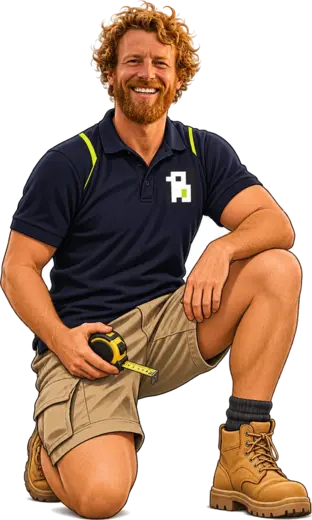
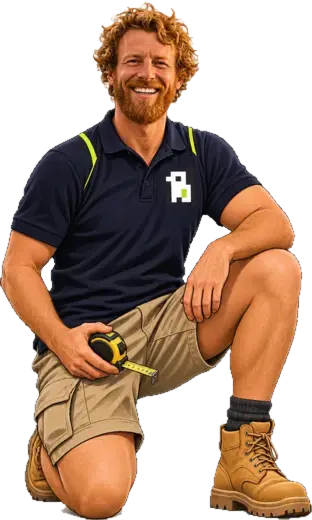
Grady's mate: a close mark over his head, clean cut-outs, a pose cycle and his own Settings block
The eight pose images are re-cut: the corner flood fill had left the pale
ground shadows under the boots, the white pockets the outline encloses
(between the legs, under an arm, between the arms) and a one-pixel white
halo; each is cleared by component with the chest logo, the teeth and the
clipboard paper kept.

A small ✕ sits centred above the figure and closes him for the rest of the
tab's session (sessionStorage); the Settings switch remains the lasting off.
While nothing is happening he now changes pose on his own every 20 s by
default (10 / 20 / 45 / 90 s or never, a Setting) through the calm poses,
never over a bubble and never asleep. Settings gains a "Grady's mate" block
of its own: the switch, "Show him again now" while he is closed, the pose
change pace, chatter, size and transparency; nothing of his stays under App
behaviour. Verify pins the module, the markup and the block; the browser
probe proves the ✕, the block, Show him again and the cycle.

Claude-Session: https://claude.ai/code/session_01MmM5HNXRcemXdm9SZhoHff

diff --git a/portal/portal-shell.html b/portal/portal-shell.html
@@ -417,6 +417,8 @@
   #mate .fig{ position:absolute; left:0; right:0; bottom:0; height:var(--mate-h); display:flex; align-items:flex-end; justify-content:center; transform-origin:50% 100%; }
   #mate .fig img{ display:none; height:var(--mate-h); width:auto; max-width:none; filter:drop-shadow(0 10px 12px rgba(35,31,32,.32)); pointer-events:none; }
   #mate .shadow{ position:absolute; left:50%; bottom:2px; width:46%; height:4%; margin-left:-23%; border-radius:50%; background:rgba(35,31,32,.18); }
+  #mate .hide{ position:absolute; left:50%; top:-8px; margin-left:-11px; width:22px; height:22px; border-radius:50%; border:1px solid #c9c9c9; background:#fff; color:#6b6b6b; font:700 12px/20px Inter, "Segoe UI", sans-serif; text-align:center; cursor:pointer; padding:0; box-shadow:0 2px 6px rgba(35,31,32,.25); opacity:.85; z-index:2; }
+  #mate .hide:hover{ opacity:1; color:#231f20; border-color:#231f20; }
   #mate .mate-mark{ position:absolute; display:none; font:900 calc(var(--mate-h) * .1) / 1 Inter, "Segoe UI", sans-serif; color:#231f20; text-shadow:0 1px 0 #fff; }
   #mate .zz{ right:0; top:0; color:#6b6b6b; }
   #mate .q{ right:-4px; top:-6px; font-size:calc(var(--mate-h) * .13); color:#c2410c; }
@@ -951,32 +953,6 @@
         <div class="hint">Every Save keeps a full version of the quote for good. While a quote is changing, another version is kept automatically at this interval. 0 turns the automatic ones off.</div>
       </div>
       <div class="field"><label class="settings-check"><input type="checkbox" id="settings-download-on-save"> Quotes: also save a copy to this computer on every Save</label></div>
-      <div class="field"><label class="settings-check"><input type="checkbox" id="settings-mate"> Grady's mate — the figure on the screen</label><div class="hint">Waves on sign-in, points at the next element, nods at a Done tick, scratches his head at an unpriced quote row, celebrates a submission. Drag him anywhere; click him to ask Gradcon AI. He changes nothing on a quote.</div></div>
-      <div class="field">
-        <label for="settings-mate-chatter">Grady's mate — chatter</label>
-        <select id="settings-mate-chatter">
-          <option value="0">Off — he only reacts to the work</option>
-          <option value="10">A friendly line every 10 minutes</option>
-          <option value="20">A friendly line every 20 minutes (default)</option>
-          <option value="30">A friendly line every 30 minutes</option>
-          <option value="60">A friendly line every hour</option>
-        </select>
-        <div class="hint">Seventy-odd sayings built from real facts: the project last worked on, what is next, the projects opened today, the quotes due, the weather. Never while he is asleep, never over another bubble.</div>
-      </div>
-      <div class="field">
-        <label for="settings-mate-size">Grady's mate — size</label>
-        <select id="settings-mate-size">
-          <option value="120">Small (120 px)</option>
-          <option value="180">Medium (180 px)</option>
-          <option value="240">Large (240 px, default)</option>
-          <option value="320">Extra large (320 px)</option>
-        </select>
-      </div>
-      <div class="field">
-        <label for="settings-mate-opacity">Grady's mate — transparency</label>
-        <div class="settings-range"><input type="range" id="settings-mate-opacity" min="20" max="100" step="5" value="100" oninput="document.getElementById('settings-mate-opacity-out').value = this.value + '%'"><output id="settings-mate-opacity-out">100%</output></div>
-        <div class="hint">100% is solid; lower lets the page show through him.</div>
-      </div>
       <div class="field">
         <label for="settings-weather-place">Weather on the dashboard — place</label>
         <input type="text" id="settings-weather-place" placeholder="Melbourne" list="settings-weather-places">
@@ -1020,6 +996,48 @@
     </div>
     <p class="settings-note">Turning off delete confirmation makes every ✕ Remove a single, immediate click — there is no undo. Auto-publish keeps the Cost Planner fed live from Estimates' Quantity Register; turn it off if you'd rather it not update automatically.</p>
 
+    <div class="settings-section" id="settings-section-mate">Grady's mate</div>
+    <div class="settings-grid" data-testid="settings-mate-block">
+      <div class="field"><label class="settings-check"><input type="checkbox" id="settings-mate"> Show Grady's mate — the figure on the screen</label><div class="hint">Waves on sign-in, points at the next element, nods at a Done tick, scratches his head at an unpriced quote row, celebrates a submission. Drag him anywhere; click him to ask Gradcon AI; the ✕ over his head closes him for the rest of this session. He changes nothing on a quote.</div></div>
+      <div class="field" id="settings-mate-closed-field" hidden><label>Closed with the ✕ for this session</label><button type="button" class="btn-ghost" id="settings-mate-show" data-testid="settings-mate-show">Show him again now</button></div>
+      <div class="field">
+        <label for="settings-mate-cycle">Change pose on his own every</label>
+        <select id="settings-mate-cycle" data-testid="settings-mate-cycle">
+          <option value="0">Never — only when something happens</option>
+          <option value="10">10 seconds</option>
+          <option value="20">20 seconds (default)</option>
+          <option value="45">45 seconds</option>
+          <option value="90">90 seconds</option>
+        </select>
+        <div class="hint">While nothing is happening he moves through his calm poses at this pace — never while a bubble is up, never asleep.</div>
+      </div>
+      <div class="field"><label class="settings-check"><input type="checkbox" id="settings-mate"> Grady's mate — the figure on the screen</label><div class="hint">Waves on sign-in, points at the next element, nods at a Done tick, scratches his head at an unpriced quote row, celebrates a submission. Drag him anywhere; click him to ask Gradcon AI. He changes nothing on a quote.</div></div>
+      <div class="field">
+        <label for="settings-mate-chatter">Chatter</label>
+        <select id="settings-mate-chatter">
+          <option value="0">Off — he only reacts to the work</option>
+          <option value="10">A friendly line every 10 minutes</option>
+          <option value="20">A friendly line every 20 minutes (default)</option>
+          <option value="30">A friendly line every 30 minutes</option>
+          <option value="60">A friendly line every hour</option>
+        </select>
+        <div class="hint">Seventy-odd sayings built from real facts: the project last worked on, what is next, the projects opened today, the quotes due, the weather. Never while he is asleep, never over another bubble.</div>
+      </div>
+      <div class="field">
+        <label for="settings-mate-size">Size</label>
+        <select id="settings-mate-size">
+          <option value="120">Small (120 px)</option>
+          <option value="180">Medium (180 px)</option>
+          <option value="240">Large (240 px, default)</option>
+          <option value="320">Extra large (320 px)</option>
+        </select>
+      </div>
+      <div class="field">
+        <label for="settings-mate-opacity">Transparency</label>
+        <div class="settings-range"><input type="range" id="settings-mate-opacity" min="20" max="100" step="5" value="100" oninput="document.getElementById('settings-mate-opacity-out').value = this.value + '%'"><output id="settings-mate-opacity-out">100%</output></div>
+        <div class="hint">100% is solid; lower lets the page show through him.</div>
+      </div>
+    </div>
     <div class="settings-section">Estimates — defaults for new takeoffs</div>
     <div class="settings-grid">
       <div class="field">
@@ -1143,7 +1161,8 @@
      is a button the person clicks. -->
 <button type="button" id="ai-chat-fab" class="ai-fab" hidden title="Ask Gradcon AI about your projects, deadlines, rates and takeoffs">🤖 Ask Gradcon AI</button>
 <!-- Grady's mate: Grady's own illustration (portal/mate/*.webp — eight poses cut out of the sheets he sent on 6 Nov 2026, inlined as data URLs by the assembler) who reacts to the work and chats between times (portal/mate.js). Drag him anywhere; click = Ask Gradcon AI; size, transparency, chatter and the switch under Settings → App behaviour. -->
-<div id="mate" hidden data-pose="idle" role="button" tabindex="0" title="Grady's mate — click to ask Gradcon AI, drag to move. Size, transparency and chatter under Settings → App behaviour." data-testid="mate">
+<div id="mate" hidden data-pose="idle" role="button" tabindex="0" title="Grady's mate — click to ask Gradcon AI, drag to move, ✕ to close him for now. His own block under Settings → Grady's mate." data-testid="mate">
+  <button type="button" class="hide" id="mate-hide" aria-label="Close Grady's mate for now" title="Close him for now — Settings → Grady's mate brings him back" data-testid="mate-hide">✕</button>
   <span class="shadow"></span>
   <div class="fig">
     <img class="img-stand" alt="" src="__MATE_POSE_STAND__">
@@ -1460,7 +1479,8 @@
     ['settings-quotes-theme','quotesTheme','portal'],
     ['settings-weather-place','weatherPlace',''],
     ['settings-mate-chatter','mateChatterMin','20'],
-    ['settings-mate-size','mateSize','240']
+    ['settings-mate-size','mateSize','240'],
+    ['settings-mate-cycle','mateCycleSec','20']
   ];
   // Toggle-backed preferences: [element id, prefs key, default-on?]. Stored
   // as explicit booleans on save (like showHero), so the apps can
@@ -2498,7 +2518,9 @@
     var lastBubbleAt = 0, lastChatterAt = Date.now(), lastSaying = null, session = { opened: [], project: '', next: '', done: 0, total: 0 };
     function prefs(){ return loadPrefs(); }
     function enabled(){ return mateEnabled(prefs()); }
-    function visible(){ return enabled() && screenId !== 'screen-login'; }
+    function closed(){ return mateClosed(window.sessionStorage); }
+    function visible(){ return enabled() && !closed() && screenId !== 'screen-login'; }
+    var lastCycleAt = Date.now();
     function facts(){ return { welcome: WELCOME_FACTS, name: currentUser ? firstName(currentUser) : '', tod: timeOfDay(new Date()), day: new Date().toLocaleDateString('en-AU', { weekday:'long' }), opened: session.opened, project: session.project, next: session.next, done: session.done, total: session.total, weather: MATE_WEATHER }; }
     function setPose(p){ el.setAttribute('data-pose', MATE_POSES.indexOf(p) >= 0 ? p : 'idle'); }
     function rest(){ setPose(idlePose(lastActive, Date.now())); }
@@ -2541,7 +2563,15 @@
       if(pos){ el.style.left = pos.x + 'px'; el.style.top = pos.y + 'px'; el.style.bottom = 'auto'; } else { el.style.left = ''; el.style.top = ''; el.style.bottom = ''; }
       if(!bubble.hidden) placeBubble();
     }
-    function refresh(){ el.hidden = !visible(); if(el.hidden) hideBubble(); else applyLook(); }
+    function refresh(){ el.hidden = !visible(); if(el.hidden) hideBubble(); else applyLook(); var cf = document.getElementById('settings-mate-closed-field'); if(cf) cf.hidden = !(enabled() && closed()); }
+    // the ✕ over his head: closed for the rest of this tab's session; Settings → Grady's mate → "Show him again now"
+    function closeForSession(){ try{ sessionStorage.setItem(MATE_CLOSED_KEY, String(Date.now())); }catch(e){} refresh(); }
+    function showAgain(){ try{ sessionStorage.removeItem(MATE_CLOSED_KEY); }catch(e){} lastActive = Date.now(); refresh(); }
+    // while nothing is happening he changes pose on his own at the Settings pace (calm poses only)
+    function cycle(now){
+      var ms = mateCycleMs(prefs()); if(!ms || !bubble.hidden || idlePose(lastActive, now) === 'sleep' || now - lastCycleAt < ms) return false;
+      setPose(cyclePose(el.getAttribute('data-pose'), Math.floor(now / 1000))); lastCycleAt = now; return true;
+    }
     function active(){ lastActive = Date.now(); if(bubble.hidden && el.getAttribute('data-pose') === 'sleep') setPose('idle'); }
     function watchFrame(){ // clicks and keys inside the app iframe (same origin, a blob: URL) count as activity
       var f = document.getElementById('app-frame'); if(!f) return;
@@ -2557,9 +2587,13 @@
     window.addEventListener('resize', function(){ if(!el.hidden) applyLook(); });
     document.addEventListener('pointerdown', active, true); document.addEventListener('keydown', active, true); watchFrame();
     window.addEventListener('storage', function(e){ if(e.key === MATE_EVENT_KEY && e.newValue){ active(); react(e.newValue); } });
-    setInterval(function(){ if(el.hidden) return; if(bubble.hidden) rest(); chatter(false); }, 30000);
+    setInterval(function(){ if(el.hidden) return; var now = Date.now(); if(bubble.hidden && idlePose(lastActive, now) === 'sleep') setPose('sleep'); else cycle(now); chatter(false); }, 5000);
     document.getElementById('mate-close').addEventListener('click', function(e){ e.stopPropagation(); hideBubble(); });
-    window.gradconMate = { react: react, refresh: refresh, chatter: function(){ return chatter(true); }, facts: facts, screen: function(id){ screenId = id; refresh(); }, state: function(){ return { pose: el.getAttribute('data-pose'), hidden: el.hidden, bubble: bubble.hidden ? null : textEl.textContent, lastSig: lastSig, side: bubble.getAttribute('data-side'), left: el.style.left, top: el.style.top, opacity: el.style.opacity, size: el.style.getPropertyValue('--mate-h') }; }, sleepNow: function(){ lastActive = 0; rest(); } };
+    var hideBtn = document.getElementById('mate-hide');
+    hideBtn.addEventListener('pointerdown', function(e){ e.stopPropagation(); }); hideBtn.addEventListener('pointerup', function(e){ e.stopPropagation(); });
+    hideBtn.addEventListener('click', function(e){ e.stopPropagation(); e.preventDefault(); closeForSession(); });
+    var showBtn = document.getElementById('settings-mate-show'); if(showBtn) showBtn.addEventListener('click', function(){ showAgain(); });
+    window.gradconMate = { react: react, refresh: refresh, chatter: function(){ return chatter(true); }, facts: facts, screen: function(id){ screenId = id; refresh(); }, close: closeForSession, show: showAgain, cycle: function(){ lastCycleAt = 0; return cycle(Date.now()); }, state: function(){ return { pose: el.getAttribute('data-pose'), hidden: el.hidden, closed: closed(), bubble: bubble.hidden ? null : textEl.textContent, lastSig: lastSig, side: bubble.getAttribute('data-side'), left: el.style.left, top: el.style.top, opacity: el.style.opacity, size: el.style.getPropertyValue('--mate-h') }; }, sleepNow: function(){ lastActive = 0; rest(); } };
     refresh();
   })();
 

diff --git a/portal/mate.js b/portal/mate.js
@@ -32,6 +32,15 @@
   const MATE_CHATTER_MIN_DEFAULT = 20;     // a friendly line every N minutes while he is awake (Settings; 0 = off)
   const MATE_CHATTER_OPTIONS = [0, 10, 20, 30, 60];
   const MATE_SIZES = [120, 180, 240, 320]; // the figure's height in px (Settings; 240 = "twice what we had")
+  // He changes pose on his own while idle (Grady, 8 Nov 2026: "reduce the time it takes for the image to
+  // change"): every MATE_CYCLE_SEC_DEFAULT seconds, a Settings choice from MATE_CYCLE_OPTIONS (0 = never),
+  // through the CALM poses only — the ones with no mark over his head — never while a bubble is up or asleep.
+  const MATE_CYCLE_OPTIONS = [0, 10, 20, 45, 90];
+  const MATE_CYCLE_SEC_DEFAULT = 20;
+  const MATE_CALM_POSES = ["idle", "hips", "clipboard", "measure", "thumbs"];
+  // The ✕ over his head closes him for the rest of this tab's session (sessionStorage); Settings → Grady's mate
+  // brings him back at once, and the next sign-in in a new tab starts fresh. The Settings switch is the lasting off.
+  const MATE_CLOSED_KEY = "gradcon-mate-closed";
   const MATE_SIZE_DEFAULT = 240;
   const MATE_OPACITY_DEFAULT = 100;        // percent (Settings slider, 20–100)
 
@@ -249,6 +258,14 @@
   /* ------------------------------------------------------------- placement, size, opacity, chatter */
   function mateSize(prefs) { const v = n(prefs && prefs.mateSize); return MATE_SIZES.indexOf(v) >= 0 ? v : MATE_SIZE_DEFAULT; }
   function mateOpacity(prefs) { const v = prefs && Number.isFinite(Number(prefs.mateOpacity)) ? Number(prefs.mateOpacity) : MATE_OPACITY_DEFAULT; return Math.min(100, Math.max(20, v)) / 100; }
+  function mateCycleMs(prefs) { const v = prefs && Number.isFinite(Number(prefs.mateCycleSec)) ? Number(prefs.mateCycleSec) : MATE_CYCLE_SEC_DEFAULT; return MATE_CYCLE_OPTIONS.indexOf(v) >= 0 ? v * 1000 : MATE_CYCLE_SEC_DEFAULT * 1000; }
+  /** The next calm pose for an idle figure: picked by the slot, never the pose he is already in. */
+  function cyclePose(prev, slot) {
+    const pool = MATE_CALM_POSES.filter((p) => p !== prev);
+    return pool[Math.abs(Math.floor(n(slot))) % pool.length];
+  }
+  /** Closed with the ✕ for this tab's session? (storage = sessionStorage, or any {getItem}) */
+  function mateClosed(storage) { try { return !!(storage && storage.getItem(MATE_CLOSED_KEY)); } catch (e) { return false; } }
   function mateChatterMs(prefs) { const v = prefs && Number.isFinite(Number(prefs.mateChatterMin)) ? Number(prefs.mateChatterMin) : MATE_CHATTER_MIN_DEFAULT; return MATE_CHATTER_OPTIONS.indexOf(v) >= 0 ? v * 60000 : MATE_CHATTER_MIN_DEFAULT * 60000; }
   /** Keep a dragged figure on screen: {x, y} are the figure's left / top in px; null = the default corner. */
   function clampMatePos(pos, size, viewport) {
@@ -263,6 +280,7 @@
   }
 
   return { MATE_EVENT_KEY, MATE_POSES, MATE_REPEAT_MS, MATE_IDLE_MS, MATE_BUBBLE_MS, MATE_CHATTER_MIN_DEFAULT, MATE_CHATTER_OPTIONS, MATE_SIZES, MATE_SIZE_DEFAULT, MATE_OPACITY_DEFAULT,
+    MATE_CYCLE_OPTIONS, MATE_CYCLE_SEC_DEFAULT, MATE_CALM_POSES, MATE_CLOSED_KEY, mateCycleMs, cyclePose, mateClosed,
     MATE_SAYINGS, SAYING_PLACEHOLDERS, SAYING_FLAGS, sayingFacts, fillSaying, eligibleSayings, mateSaying, mateSize, mateOpacity, mateChatterMs, clampMatePos,
     parseMateEvent, mateReaction, shouldSpeak, idlePose, mateEnabled, countUnpricedQuoteRows };
 });

diff --git a/CLAUDE.md b/CLAUDE.md
@@ -1196,7 +1196,13 @@ interchangeable sayings … not imposing and can be shut off … twice the size
 thumbs,arms,hips,kneel,clipboard,wave}.webp` are the eight poses cut out of
 the sheets (hands in pockets, pointing, thumbs-up crouch, arms crossed, hands
 on hips, kneeling with the tape, clipboard thumbs-up, waving), 520 px tall
-WebP with alpha, inlined as data URLs by `assemble-portal.mjs`
+WebP with alpha (re-cut 8 Nov 2026 — Grady: "remove the background from all
+the images": the corner flood fill had left the pale ground shadows under the
+boots, the white pockets the outline encloses — between the legs, under an
+arm, between the arms — and a one-pixel white halo; each was cleared by
+component with the chest logo, the teeth and the clipboard paper kept, the
+halo by a one-pixel alpha erode; the recipe is in the scratchpad's
+`mate-check/recut.sh`), inlined as data URLs by `assemble-portal.mjs`
 (`__MATE_POSE_<POSE>__`, asserted RIFF/WEBP) and animated as whole figures
 (breathe, rock, jab, bob, jump with confetti, a "?" when he thinks, a clock
 on the wrist tap, grey and z's asleep). The cut-out was done LOCALLY with
@@ -1257,9 +1263,31 @@ carried a hand-drawn vector instead. Rules:
 3. **Quiet by design** (Clippy was hated for interrupting): one bubble at a
    time, only on an event or the chatter interval, `MATE_BUBBLE_MS` = 9 s
    then back to idle, a ✕ on the bubble (`mate-close`), hidden on the login
-   screen, a still figure under `prefers-reduced-motion`, and the Settings →
-   App behaviour switch "Grady's mate" (`settings-mate`, `mateOn`, default
-   on, `BOOL_FIELDS`). Clicking him opens the Gradcon AI chat (`ai-chat-fab`).
+   screen, a still figure under `prefers-reduced-motion`, and the switch
+   "Show Grady's mate" (`settings-mate`, `mateOn`, default on,
+   `BOOL_FIELDS`). Clicking him opens the Gradcon AI chat (`ai-chat-fab`).
+   **A ✕ sits over his head** (Grady, 8 Nov 2026: "add a close mark over his
+   head so user can close it"): `#mate-hide` (`.hide`, centred above the
+   figure; its pointerdown never starts a drag) closes him for the rest of
+   THIS TAB'S SESSION — `sessionStorage[MATE_CLOSED_KEY]` =
+   `gradcon-mate-closed`, `mateClosed(storage)` the ONE reading, folded into
+   the driver's `visible()` — never the lasting off (that stays the Settings
+   switch); the next sign-in in a new tab starts fresh. **His Settings live in
+   a block of their own** (same day: "add a dedicated block for settings
+   concerning this in the settings tab"): the section
+   `settings-section-mate` "Grady's mate" — the switch, "Closed with the ✕ for
+   this session · Show him again now" (`settings-mate-show`, shown only while
+   he is closed; `gradconMate.show()`), "Change pose on his own every"
+   (`settings-mate-cycle`), chatter, size, transparency; nothing of his is
+   left under App behaviour (`verify.mjs` pins the block and the absence).
+   **He changes pose on his own while idle** (same day: "reduce the time it
+   takes for the image to change"): every `mateCycleSec` seconds
+   (`MATE_CYCLE_OPTIONS` 0 / 10 / 20 (default) / 45 / 90, `mateCycleMs`,
+   `STR_FIELDS`) the 5 s driver tick moves him through `MATE_CALM_POSES`
+   (idle, hips, clipboard, measure, thumbs — the poses with no mark over his
+   head; `cyclePose(prev, slot)` never repeats the pose he is in), never
+   while a bubble is up and never asleep; an event still sets its own pose.
+   `gradconMate.cycle()` / `.close()` / `.show()` are the test seams.
 4. **He is dragged anywhere, sized and faded from Settings.** Pointer drag
    on `#mate` (a press that moves under 6 px is the click); the spot is
    `prefs.matePos = {x, y}` (per browser, `clampMatePos` keeps him on screen
